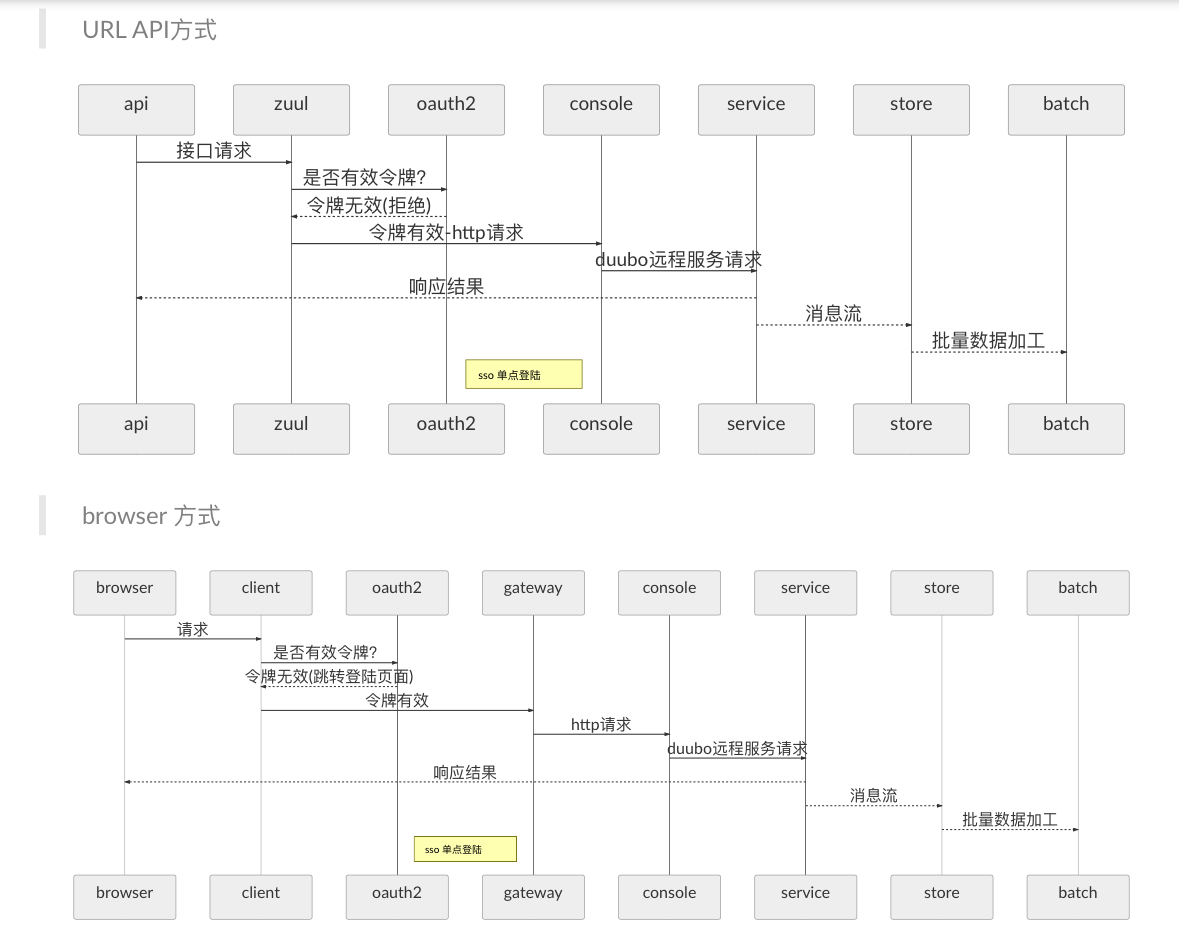
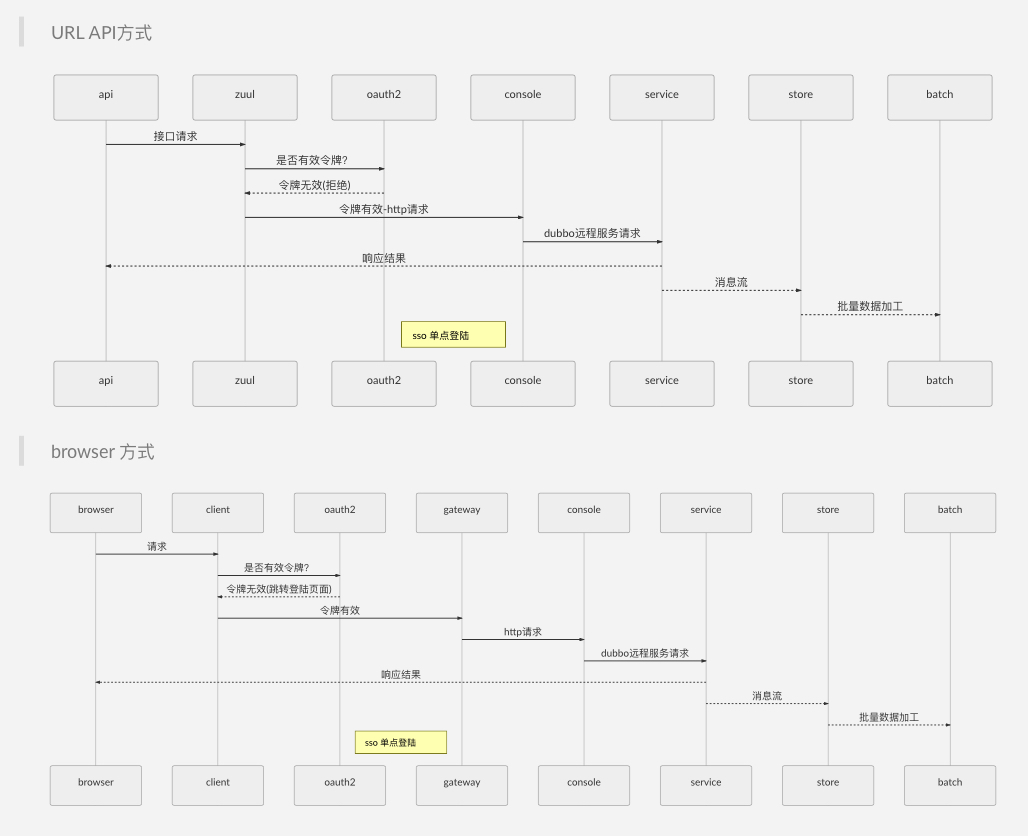
upate

diff --git a/README.md b/README.md
@@ -33,7 +33,7 @@ api ->> zuul: 接口请求
 zuul ->> oauth2: 是否有效令牌？
 oauth2 -->> zuul: 令牌无效(拒绝)
 zuul ->> console: 令牌有效-http请求
-console ->> service: duubo远程服务请求
+console ->> service: dubbo远程服务请求
 service -->> api: 响应结果
 service -->> store: 消息流
 store -->> batch: 批量数据加工
@@ -47,7 +47,7 @@ client ->> oauth2: 是否有效令牌？
 oauth2 -->> client: 令牌无效(跳转登陆页面)
 client ->> gateway: 令牌有效
 gateway ->> console: http请求
-console ->> service: duubo远程服务请求
+console ->> service: dubbo远程服务请求
 service -->> browser: 响应结果
 service -->> store: 消息流
 store -->> batch: 批量数据加工
